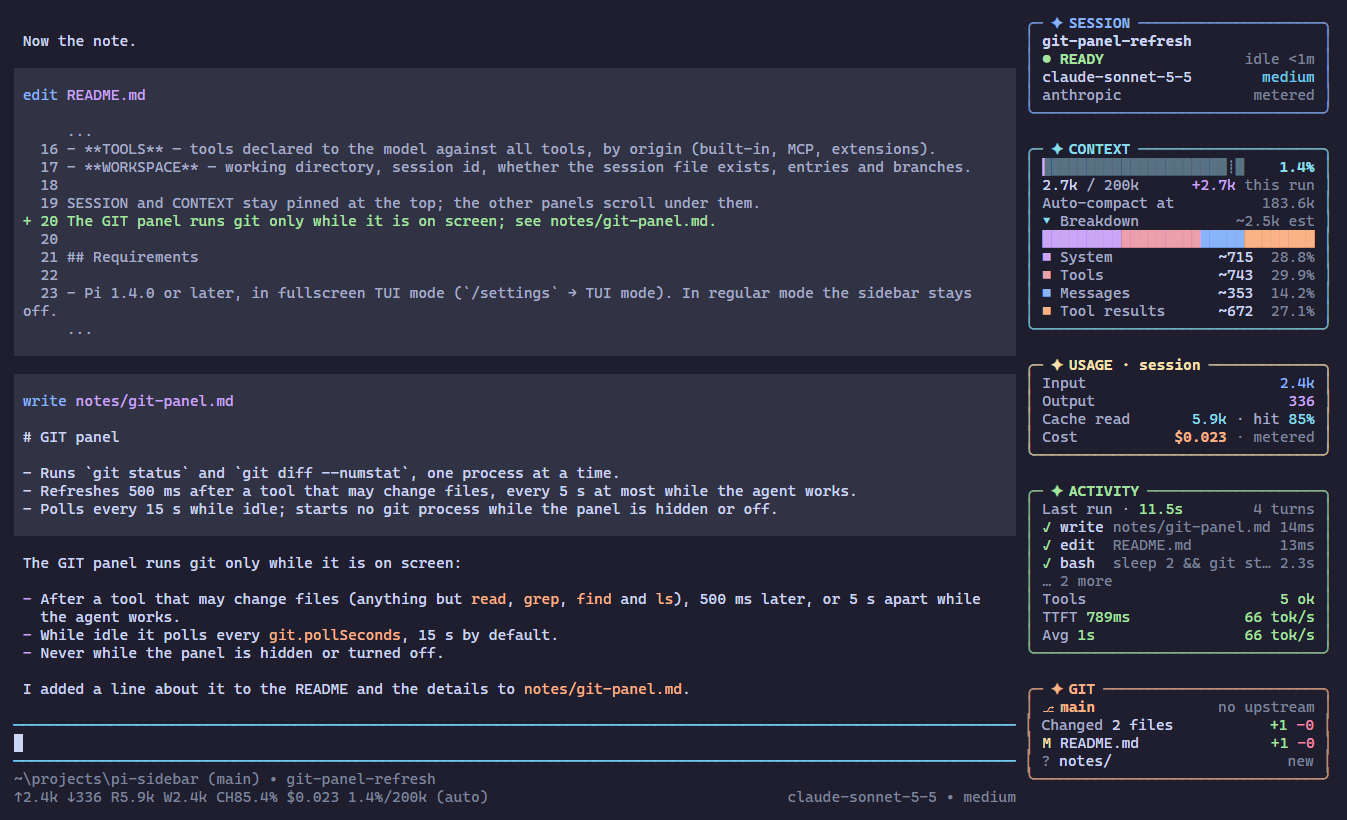
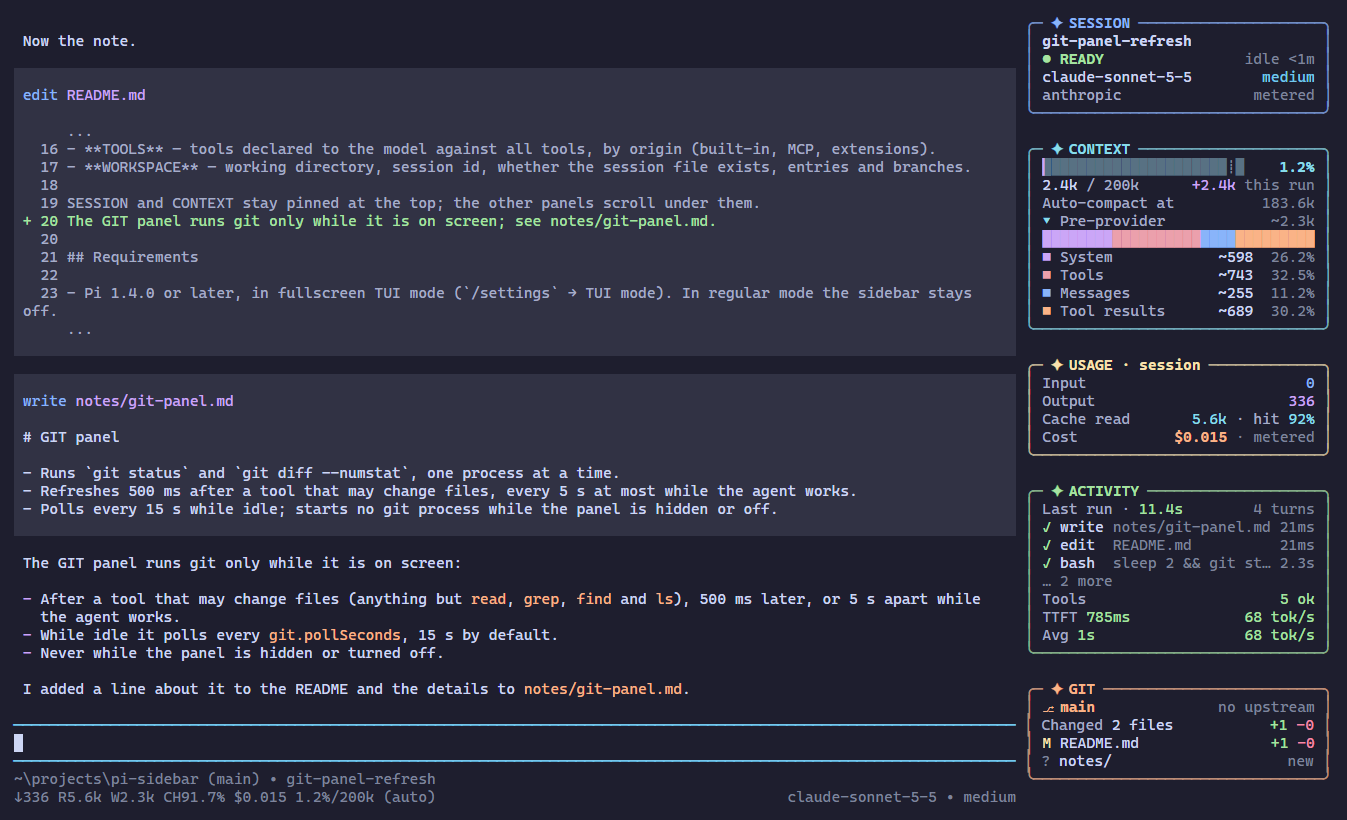
Keep the last observed context breakdown

diff --git a/src/controller.ts b/src/controller.ts
@@ -120,8 +120,6 @@ export class SidebarController implements SidebarModel, SidebarActions {
   private usage: UsageScan = startScan();
   /** Context tokens when the current or last run started; the base of "+N this run". */
   private deltaBase?: number;
-  /** System prompt and tool declarations as the latest model request carried them. */
-  private requestParts?: { system?: number; tools?: number };
   private requestStartedAt?: number;
   private firstTokenAt?: number;
   private responseTtft?: number;
@@ -209,7 +207,6 @@ export class SidebarController implements SidebarModel, SidebarActions {
     this.paletteCache = undefined;
     this.width = 0;
     this.deltaBase = undefined;
-    this.requestParts = undefined;
     this.requestStartedAt = undefined;
     this.firstTokenAt = undefined;
     this.responseTtft = undefined;
@@ -259,7 +256,7 @@ export class SidebarController implements SidebarModel, SidebarActions {
 
   onTurnEnd(ctx: ExtensionContext): void {
     this.handle("turn_end", () => {
-      const data = this.collect(ctx, { composition: true, tools: true });
+      const data = this.collect(ctx, { composition: this.store.snapshot.composition?.source !== "request", tools: true });
       const queued = ctx.hasPendingMessages();
       this.store.update((s) => ({ ...data, activity: { ...s.activity, queued } }));
     });
@@ -281,7 +278,7 @@ export class SidebarController implements SidebarModel, SidebarActions {
       this.firstTokenAt = undefined;
       this.git?.setBusy(false);
       this.git?.request();
-      const data = this.collect(ctx, { composition: true, history: true, tools: true });
+      const data = this.collect(ctx, { composition: this.store.snapshot.composition?.source !== "request", history: true, tools: true });
       const queued = ctx.hasPendingMessages();
       this.store.update(
         (s) => ({ ...data, session: { ...s.session, ...statusOf(this.flags) }, activity: { ...endRun(s.activity, now, aborted), queued } }),
@@ -347,11 +344,10 @@ export class SidebarController implements SidebarModel, SidebarActions {
     });
   }
 
-  /** The transcript of a model request, after every context transform (`context_with_system`). Read only. */
+  /** The transcript seen before provider payload rewriting (`context_with_system`). Read only. */
   onRequestContext(messages: readonly unknown[]): void {
     this.handle("context_with_system", () => {
       const composition = compositionFromRequest(messages, this.estimate);
-      this.requestParts = { system: composition.parts.system, tools: composition.parts.tools };
       this.store.update(() => ({ composition }));
     });
   }
@@ -381,7 +377,8 @@ export class SidebarController implements SidebarModel, SidebarActions {
       const info = readModel(model, this.pi.getThinkingLevel());
       const billing = this.attempt("billing", () => readBilling(ctx, model));
       const context = this.readContext(ctx, model);
-      this.store.update((s) => ({ session: { ...s.session, ...info, billing }, context }));
+      const composition = this.sessionComposition(ctx);
+      this.store.update((s) => ({ session: { ...s.session, ...info, billing }, context, composition }));
     });
   }
 
@@ -421,7 +418,7 @@ export class SidebarController implements SidebarModel, SidebarActions {
     this.handle("session_compact", () => {
       this.flags = { ...this.flags, compacting: false };
       this.deltaBase = undefined;
-      const data = this.collect(ctx, { composition: true, history: true });
+      const data = this.collect(ctx, { composition: this.store.snapshot.composition?.source !== "request", history: true });
       this.store.update((s) => ({ ...data, session: { ...s.session, ...statusOf(this.flags) } }));
       this.updateTicker();
     });
@@ -457,10 +454,7 @@ export class SidebarController implements SidebarModel, SidebarActions {
     if (context) change.context = context.value;
     const workspace = this.attempt("workspace", () => this.readWorkspace(ctx, entries ?? [], refresh.history === true));
     if (workspace) change.workspace = workspace;
-    if (refresh.composition) {
-      const composition = this.attempt("breakdown", () => this.sessionComposition(ctx));
-      if (composition) change.composition = composition;
-    }
+    if (refresh.composition) change.composition = this.sessionComposition(ctx);
     if (refresh.tools) {
       const tools = this.readTools();
       if (tools) change.tools = tools;
@@ -486,12 +480,14 @@ export class SidebarController implements SidebarModel, SidebarActions {
     };
   }
 
-  /** The active branch between requests, with the prompt and tools of the latest request when known. */
+  /** Fallback for the active branch; never mixes in parts from an earlier request. */
   private sessionComposition(ctx: ExtensionContext): SidebarSnapshot["composition"] {
-    const messages = ctx.sessionManager.buildSessionProjection().messages;
-    const system = this.requestParts?.system ?? estimateText(ctx.getSystemPrompt());
-    const tools = this.requestParts?.tools ?? this.activeToolTokens();
-    return compositionFromSession(messages, system, tools, this.estimate);
+    return this.attempt("breakdown", () => compositionFromSession(
+      ctx.sessionManager.buildSessionProjection().messages,
+      estimateText(ctx.getSystemPrompt()),
+      this.activeToolTokens(),
+      this.estimate,
+    ));
   }
 
   private activeToolTokens(): number | undefined {
@@ -702,7 +698,7 @@ export class SidebarController implements SidebarModel, SidebarActions {
     const breakdown = !config.contextBreakdown
       ? "hidden"
       : composition
-        ? `estimated from the ${composition.source === "request" ? "latest request" : "active branch"}`
+        ? `estimated from ${composition.source === "request" ? "the last pre-provider transcript" : "local history"}`
         : "not yet estimated";
     return [
       headline,

diff --git a/test/panels.test.ts b/test/panels.test.ts
@@ -105,15 +105,22 @@ test("28 columns: title rules, abbreviated labels, git counts only, two tools wi
   lacks(text, ["╭", "anthropic", "origin/main", "Auto-compact", "src/state", "npm test", "this run"]);
 });
 
-test("context breakdown: a colour bar and one row per part, closed with a click on its first row", () => {
-  const open = render(sampleSnapshot(), "normal");
-  contains(open, ["▾ Breakdown", "~74.1k est", "System", "~4.2k", "5.7%", "Tool results", "~29.8k", "40.2%", "Images", "Other"]);
-  lacks(open, ["Summary"]);
-  const closed = render(sampleSnapshot(), "normal", opened({ breakdown: false }));
-  contains(closed, ["▸ Breakdown", "~74.1k est"]);
-  lacks(closed, ["Tool results", "Images"]);
-  const header = rowsOf(sampleSnapshot(), "normal").find((line) => rowText(line).includes("Breakdown"));
-  assert.deepEqual(header?.action, { type: "toggle", key: "breakdown" });
+test("breakdown shows its source at both widths, even when closed", () => {
+  const snapshot = sampleSnapshot();
+  const local = sampleSnapshot({ composition: { ...snapshot.composition!, source: "session" } });
+  for (const { tier } of TIERS) {
+    const open = render(snapshot, tier);
+    contains(open, ["▾ Pre-provider", "~74.1k", "System", "~4.2k", "Tool results", "~29.8k", "Images", "Other"]);
+    lacks(open, ["Summary", "Local history"]);
+    contains(open, tier === "normal" ? ["5.7%", "40.2%"] : ["6%", "40%"]);
+    const closed = render(snapshot, tier, opened({ breakdown: false }));
+    contains(closed, ["▸ Pre-provider", "~74.1k"]);
+    lacks(closed, ["Tool results", "Images"]);
+    contains(render(local, tier), ["▾ Local history", "~74.1k"]);
+    contains(render(local, tier, opened({ breakdown: false })), ["▸ Local history", "~74.1k"]);
+    const header = rowsOf(snapshot, tier).find((line) => rowText(line).includes("Pre-provider"));
+    assert.deepEqual(header?.action, { type: "toggle", key: "breakdown" });
+  }
 });
 
 test("breakdown legend: marks that leave a gap between rows, the bar's own patterns without colour", () => {
@@ -272,7 +279,7 @@ test("ascii icons: every line is plain ASCII", () => {
   for (const { tier } of TIERS) {
     for (const line of render(sampleSnapshot(), tier, view).split("\n")) assert.match(line, /^[\x20-\x7e]*$/, `non-ASCII in "${line}"`);
   }
-  contains(render(sampleSnapshot(), "normal", view), ["+- * SESSION", "* READY", "git: main", "^1 origin/main", "+86 -47", "v Breakdown"]);
+  contains(render(sampleSnapshot(), "normal", view), ["+- * SESSION", "* READY", "git: main", "^1 origin/main", "+86 -47", "v Pre-provider"]);
 });
 
 test("panels turned off are left out; the pinned ones stay", () => {
@@ -287,7 +294,7 @@ test("a low terminal merges SESSION and CONTEXT into one block", () => {
   const text = rows.map(rowText).join("\n");
   assert.equal(rows.length, 6);
   contains(text, ["READY", "claude-sonnet-5-5", "38.2%"]);
-  lacks(text, ["CONTEXT", "refactor-session-tree", "Breakdown"]);
+  lacks(text, ["CONTEXT", "refactor-session-tree", "Pre-provider"]);
 });
 
 function mouse(type: TuiMouseEvent["type"], y: number, clickCount?: number): TuiMouseEvent {

diff --git a/test/controller.test.ts b/test/controller.test.ts
@@ -187,8 +187,8 @@ test("a run: tools, time to first token, a sampled streaming estimate, final spe
   assert.deepEqual(controller.errors, []);
 });
 
-test("the breakdown follows the latest request, and between requests keeps that request's prompt and tools", () => {
-  const { controller, ctx } = harness();
+test("turn and run end keep the last pre-provider breakdown until a new request is observed", () => {
+  const { controller, ctx, state } = harness();
   controller.start(ctx);
   controller.onRequestContext([
     { role: "system", content: "p".repeat(800), toolsAdded: [{ name: "read", description: "Read a file", parameters: {} }] },
@@ -196,9 +196,33 @@ test("the breakdown follows the latest request, and between requests keeps that 
   ]);
   const request = controller.snapshot.composition;
   assert.deepEqual([request?.source, request?.parts.system, request?.parts.messages], ["request", 200, 10]);
+  state.messages = [{ role: "user", content: "u".repeat(160_000) }];
   controller.onTurnEnd(ctx);
-  const session = controller.snapshot.composition;
-  assert.deepEqual([session?.source, session?.parts.system, session?.parts.tools, session?.parts.messages], ["session", 200, request?.parts.tools, 30]);
+  assert.deepEqual(controller.snapshot.composition, request);
+  controller.onAgentSettled(false, ctx);
+  assert.deepEqual(controller.snapshot.composition, request);
+  controller.onCompactEnd(ctx);
+  assert.deepEqual(controller.snapshot.composition, request);
+  assert.match(controller.statusText(), /breakdown estimated from the last pre-provider transcript/);
+  controller.onRequestContext([{ role: "user", content: "u".repeat(80) }]);
+  assert.equal(controller.snapshot.composition?.parts.messages, 20);
+});
+
+test("changing branch, model or session falls back to that scope's local history", () => {
+  const { controller, ctx } = harness();
+  controller.start(ctx);
+  const request = [{ role: "system", content: "p".repeat(800) }, { role: "user", content: "short" }];
+  for (const reset of [
+    () => controller.onSessionTree(ctx),
+    () => controller.onModelSelect({ ...ctx.model, id: "other" } as ExtensionContext["model"], ctx),
+    () => controller.start(ctx),
+  ]) {
+    controller.onRequestContext(request);
+    reset();
+    const composition = controller.snapshot.composition;
+    assert.deepEqual([composition?.source, composition?.parts.system, composition?.parts.messages], ["session", 100, 30]);
+    assert.match(controller.statusText(), /breakdown estimated from local history/);
+  }
 });
 
 test("a failing read is reported and leaves the rest of the snapshot current", () => {

diff --git a/scripts/screenshot.ts b/scripts/screenshot.ts
@@ -49,11 +49,11 @@ interface StateSpec {
 }
 const STATE_PROMPT = "Which files does the GIT panel read, and how often?";
 const STATE_REPLY = "It reads git status and git diff, and refreshes on events and every 15 s while idle.";
-/** The same exchange is 2 988 tokens; these windows put it at 74.7% and 89.2%, as §6.6 describes. */
+/** One exchange uses about 1.4k tokens in Pi 1.6.0; these windows put it in the §6.6 bands. */
 const STATES: Record<string, StateSpec> = {
   normal: { caption: "normal", window: 200_000 },
-  warning: { caption: "warning, 70% or more", window: 4_000, reserve: 500 },
-  danger: { caption: "danger, 85% or more", window: 3_350, reserve: 500 },
+  warning: { caption: "warning, 70% or more", window: 1_800, reserve: 100 },
+  danger: { caption: "danger, 85% or more", window: 1_550, reserve: 100 },
   "compaction-off": { caption: "auto-compaction off", window: 200_000, compaction: false },
   "no-window": { caption: "no context window", window: 0 },
 };

diff --git a/src/ui/panels.ts b/src/ui/panels.ts
@@ -207,9 +207,10 @@ function contextPanel(snapshot: SidebarSnapshot, view: PanelView, tier: Tier, wi
 function breakdownRows(composition: Composition | undefined, view: PanelView, tier: Tier, width: number): Row[] {
   const { g } = view;
   const open = view.expanded.breakdown;
-  const total = composition ? `~${formatTokens(composition.total)}${tier === "normal" ? " est" : ""}` : g.none;
+  const label = !composition ? "Breakdown" : composition.source === "request" ? "Pre-provider" : "Local history";
+  const total = composition ? `~${formatTokens(composition.total)}` : g.none;
   const header = row(
-    lr([seg(`${open ? g.unfolded : g.folded} `, "context"), seg("Breakdown", "label")], [seg(total, "faint")], width, g.ellipsis),
+    lr([seg(`${open ? g.unfolded : g.folded} `, "context"), seg(label, "label")], [seg(total, "faint")], width, g.ellipsis),
     toggleAction("breakdown"),
   );
   if (!open || !composition) return [header];

diff --git a/src/state/composition.ts b/src/state/composition.ts
@@ -126,10 +126,7 @@ export function compositionFromRequest(messages: readonly unknown[], estimate: E
   return compose({ system, tools, messages, estimate, source: "request" });
 }
 
-/**
- * From the session between requests: the active branch, plus the system prompt and tool declarations
- * of the latest request when there was one, else Pi's current prompt and active tool schemas.
- */
+/** Fallback from the active branch, with Pi's current system prompt and active tool schemas. */
 export function compositionFromSession(
   messages: readonly unknown[],
   system: number | undefined,

diff --git a/src/state/snapshot.ts b/src/state/snapshot.ts
@@ -82,7 +82,7 @@ export interface Composition {
   parts: Record<PartName, number | undefined>;
   total: number;
   images: number;
-  /** "request": the transcript of the latest model request; "session": the active branch. */
+  /** "request": the last observed pre-provider transcript; "session": local history on the active branch. */
   source: "request" | "session";
 }
 

diff --git a/README.md b/README.md
@@ -50,7 +50,7 @@ Everything is a `/sidebar` command. Each one applies at once and is saved in `~/
 With the mouse:
 
 - Click a panel title to fold or unfold the panel.
-- Click `▸ Breakdown`, `… N more` or `▸ names` to open a list; click the same row or `▴ fewer` to close it.
+- Click the context breakdown row (`Pre-provider` or `Local history`), `… N more` or `▸ names` to open a list; click the same row or `▴ fewer` to close it.
 - The wheel scrolls the lower panels. Nowhere over the sidebar does it move the conversation.
 
 The sidebar never takes keyboard focus, and selecting text elsewhere works as before.
@@ -83,7 +83,9 @@ Pi has no sidebar API, but in fullscreen mode it draws a layout tree. The extens
 
 It does not replace or decorate the editor, footer or header, opens no overlays or dialogs, registers no shortcuts or input listeners, and never writes to the session; `npm run rules` checks the source for those calls.
 
-The context breakdown counts each message with Pi's own `estimateTokens`, so it follows the rule Pi uses for its context. It is an estimate and marked as one; the bar and the token count beside it are Pi's real figures.
+The context bar and tokens / window come from Pi's `getContextUsage()`. The breakdown estimates the parts separately with Pi's `estimateTokens`; its percentages are shares of its own `~` total, not of the bar above it.
+
+`Pre-provider` keeps the last transcript the sidebar saw in `context_with_system`, even after the reply ends. Later handlers or downstream proxies can still change what the model receives. Until the sidebar observes a request in the current session, branch and model, `Local history` estimates the active branch with Pi's current system prompt and active tool definitions.
 
 A multi-column layout costs pi-tui some work per frame: it merges every box narrower than the terminal into its row. Each sidebar row is drawn by a single box to keep that cost low (about 5 ms per frame at 181×56 on a laptop; `npm run bench`). With the sidebar hidden, Pi's layout is drawn exactly as before.
 
